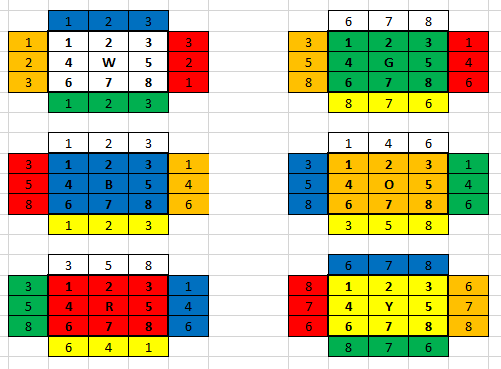
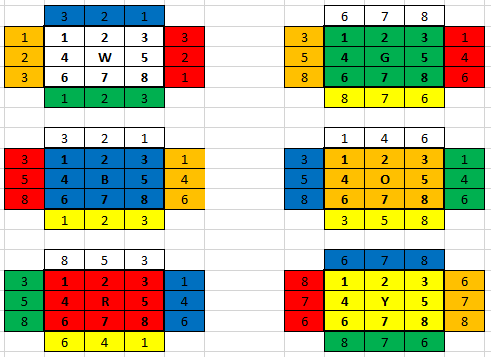
Functions for turning faces done and finished + test those functions (methods) : turnFaceLeft and turnFaceRight

Changed region(s): [[0.0, 0.0, 1.0, 1.0]]

diff --git a/src/com/martdel/rubik/Cube.java b/src/com/martdel/rubik/Cube.java
@@ -37,16 +37,18 @@ public class Cube {
 
 	public void turnFaceRight(Face f, int t) {
 		// Turn a face to the right
-		Face newF = new Face(null, null, null, null, null, null, null, null, null);
-		Integer[] idOfTheNewColor = {6, 4, 1, 7, 2, 8, 5, 3}; // Creating an array which contain the order of the id of the stickers which will become the new stickers
-		for(int j = 1; j <= 8; j++) {
-			newF.setAttribut(j, f.getAttribut(idOfTheNewColor[j - 1]));
+		for(int i = 0; i < t; i++) {
+			Face newF = new Face(null, null, null, null, null, null, null, null, null);
+			Integer[] idOfTheNewColor = {6, 4, 1, 7, 2, 8, 5, 3}; // Creating an array which contain the order of the id of the stickers which will become the new stickers
+			for(int j = 1; j <= 8; j++) {
+				newF.setAttribut(j, f.getAttribut(idOfTheNewColor[j - 1]));
+			}
+			setAttribut(f.getColorCenter(), newF);
+			updateAdjFacesRight(f);
 		}
-		setAttribut(f.getColorCenter(), newF);
-		updateAdjacentsFaces(f);
 	}
 	
-	public void updateAdjacentsFaces(Face f) {
+	public void updateAdjFacesRight(Face f) {
 		switch(f.getColorCenter()) {
 		case WHITE :
 			Face newFirstF = copyFaceFrom(getBlueFace());
@@ -183,9 +185,154 @@ public class Cube {
 		}
 	}
 
-	public Cube turnFaceLeft(Cube newCube, Face f, int t) {
+	public void turnFaceLeft(Face f, int t) {
 		// Turn a face to the left
-		return newCube;
+		for(int i = 0; i < t; i++) {
+			Face newF = new Face(null, null, null, null, null, null, null, null, null);
+			Integer[] idOfTheNewColor = {3, 5, 8, 2, 7, 1, 4, 6}; // Creating an array which contain the order of the id of the stickers which will become the new stickers
+			for(int j = 1; j <= 8; j++) {
+				newF.setAttribut(j, f.getAttribut(idOfTheNewColor[j - 1]));
+			}
+			setAttribut(f.getColorCenter(), newF);
+			updateAdjFacesLeft(f);
+		}
+	}
+	
+	public void updateAdjFacesLeft(Face f) {
+		switch(f.getColorCenter()) {
+		case WHITE :
+			Face newFirstF = copyFaceFrom(getBlueFace());
+			Face newSecondF = copyFaceFrom(getRedFace());
+			Face newThirdF = copyFaceFrom(getGreenFace());
+			Face newFourthF = copyFaceFrom(getOrangeFace());
+			newFirstF.setThree(redFace.getThree());
+			newFirstF.setTwo(redFace.getTwo());
+			newFirstF.setOne(redFace.getOne());
+			newSecondF.setThree(greenFace.getThree());
+			newSecondF.setTwo(greenFace.getTwo());
+			newSecondF.setOne(greenFace.getOne());
+			newThirdF.setThree(orangeFace.getThree());
+			newThirdF.setTwo(orangeFace.getTwo());
+			newThirdF.setOne(orangeFace.getOne());
+			newFourthF.setThree(blueFace.getThree());
+			newFourthF.setTwo(blueFace.getTwo());
+			newFourthF.setOne(blueFace.getOne());
+			setAttribut(Color.BLUE, newFirstF);
+			setAttribut(Color.RED, newSecondF);
+			setAttribut(Color.GREEN, newThirdF);
+			setAttribut(Color.ORANGE, newFourthF);
+			break;
+		case BLUE:
+			Face newFirstF1 = copyFaceFrom(getWhiteFace());
+			Face newSecondF1 = copyFaceFrom(getOrangeFace());
+			Face newThirdF1 = copyFaceFrom(getYellowFace());
+			Face newFourthF1 = copyFaceFrom(getRedFace());
+			newFirstF1.setThree(orangeFace.getOne());
+			newFirstF1.setTwo(orangeFace.getFour());
+			newFirstF1.setOne(orangeFace.getSix());
+			newSecondF1.setOne(yellowFace.getThree());
+			newSecondF1.setFour(yellowFace.getTwo());
+			newSecondF1.setSix(yellowFace.getOne());
+			newThirdF1.setThree(redFace.getEight());
+			newThirdF1.setTwo(redFace.getFive());
+			newThirdF1.setOne(redFace.getThree());
+			newFourthF1.setEight(whiteFace.getThree());
+			newFourthF1.setFive(whiteFace.getTwo());
+			newFourthF1.setThree(whiteFace.getOne());
+			setAttribut(Color.WHITE, newFirstF1);
+			setAttribut(Color.ORANGE, newSecondF1);
+			setAttribut(Color.YELLOW, newThirdF1);
+			setAttribut(Color.RED, newFourthF1);
+			break;
+		case RED:
+			Face newFirstF2 = copyFaceFrom(getWhiteFace());
+			Face newSecondF2 = copyFaceFrom(getBlueFace());
+			Face newThirdF2 = copyFaceFrom(getYellowFace());
+			Face newFourthF2 = copyFaceFrom(getGreenFace());
+			newFirstF2.setEight(blueFace.getOne());
+			newFirstF2.setFive(blueFace.getFour());
+			newFirstF2.setThree(blueFace.getSix());
+			newSecondF2.setOne(yellowFace.getOne());
+			newSecondF2.setFour(yellowFace.getFour());
+			newSecondF2.setSix(yellowFace.getSix());
+			newThirdF2.setOne(greenFace.getEight());
+			newThirdF2.setFour(greenFace.getFive());
+			newThirdF2.setSix(greenFace.getThree());
+			newFourthF2.setEight(whiteFace.getEight());
+			newFourthF2.setFive(whiteFace.getFive());
+			newFourthF2.setThree(whiteFace.getThree());
+			setAttribut(Color.WHITE, newFirstF2);
+			setAttribut(Color.BLUE, newSecondF2);
+			setAttribut(Color.YELLOW, newThirdF2);
+			setAttribut(Color.GREEN, newFourthF2);
+			break;
+		case GREEN:
+			Face newFirstF3 = copyFaceFrom(getWhiteFace());
+			Face newSecondF3 = copyFaceFrom(getRedFace());
+			Face newThirdF3 = copyFaceFrom(getYellowFace());
+			Face newFourthF3 = copyFaceFrom(getOrangeFace());
+			newFirstF3.setSix(redFace.getOne());
+			newFirstF3.setSeven(redFace.getFour());
+			newFirstF3.setEight(redFace.getSix());
+			newSecondF3.setOne(yellowFace.getSix());
+			newSecondF3.setFour(yellowFace.getSeven());
+			newSecondF3.setSix(yellowFace.getEight());
+			newThirdF3.setSix(orangeFace.getEight());
+			newThirdF3.setSeven(orangeFace.getFive());
+			newThirdF3.setEight(orangeFace.getThree());
+			newFourthF3.setEight(whiteFace.getSix());
+			newFourthF3.setFive(whiteFace.getSeven());
+			newFourthF3.setThree(whiteFace.getEight());
+			setAttribut(Color.WHITE, newFirstF3);
+			setAttribut(Color.RED, newSecondF3);
+			setAttribut(Color.YELLOW, newThirdF3);
+			setAttribut(Color.ORANGE, newFourthF3);
+			break;
+		case ORANGE:
+			Face newFirstF4 = copyFaceFrom(getWhiteFace());
+			Face newSecondF4 = copyFaceFrom(getGreenFace());
+			Face newThirdF4 = copyFaceFrom(getYellowFace());
+			Face newFourthF4 = copyFaceFrom(getBlueFace());
+			newFirstF4.setOne(greenFace.getOne());
+			newFirstF4.setFour(greenFace.getFour());
+			newFirstF4.setSix(greenFace.getSix());
+			newSecondF4.setOne(yellowFace.getEight());
+			newSecondF4.setFour(yellowFace.getFive());
+			newSecondF4.setSix(yellowFace.getThree());
+			newThirdF4.setEight(blueFace.getEight());
+			newThirdF4.setFive(blueFace.getFive());
+			newThirdF4.setThree(blueFace.getThree());
+			newFourthF4.setEight(whiteFace.getOne());
+			newFourthF4.setFive(whiteFace.getFour());
+			newFourthF4.setThree(whiteFace.getSix());
+			setAttribut(Color.WHITE, newFirstF4);
+			setAttribut(Color.GREEN, newSecondF4);
+			setAttribut(Color.YELLOW, newThirdF4);
+			setAttribut(Color.BLUE, newFourthF4);
+			break;
+		case YELLOW:
+			Face newFirstF5 = copyFaceFrom(getBlueFace());
+			Face newSecondF5 = copyFaceFrom(getOrangeFace());
+			Face newThirdF5 = copyFaceFrom(getGreenFace());
+			Face newFourthF5 = copyFaceFrom(getRedFace());
+			newFirstF5.setSix(orangeFace.getSix());
+			newFirstF5.setSeven(orangeFace.getSeven());
+			newFirstF5.setEight(orangeFace.getEight());
+			newSecondF5.setSix(greenFace.getSix());
+			newSecondF5.setSeven(greenFace.getSeven());
+			newSecondF5.setEight(greenFace.getEight());
+			newThirdF5.setSix(redFace.getSix());
+			newThirdF5.setSeven(redFace.getSeven());
+			newThirdF5.setEight(redFace.getEight());
+			newFourthF5.setSix(blueFace.getSix());
+			newFourthF5.setSeven(blueFace.getSeven());
+			newFourthF5.setEight(blueFace.getEight());
+			setAttribut(Color.BLUE, newFirstF5);
+			setAttribut(Color.ORANGE, newSecondF5);
+			setAttribut(Color.GREEN, newThirdF5);
+			setAttribut(Color.RED, newFourthF5);
+			break;
+		}
 	}
 	
 	public Face getAttribut(Color a) {

diff --git a/src/com/martdel/rubik/Main.java b/src/com/martdel/rubik/Main.java
@@ -13,7 +13,7 @@ public class Main {
 	public static void main(String[] args) {
 		cube = new Cube();
 		askColor();
-		cube.turnFaceRight(cube.getYellowFace(), 1);
+		cube.turnFaceRight(cube.getBlueFace(), 3);
 		System.out.println("--------------------");
 		test();
 	}
